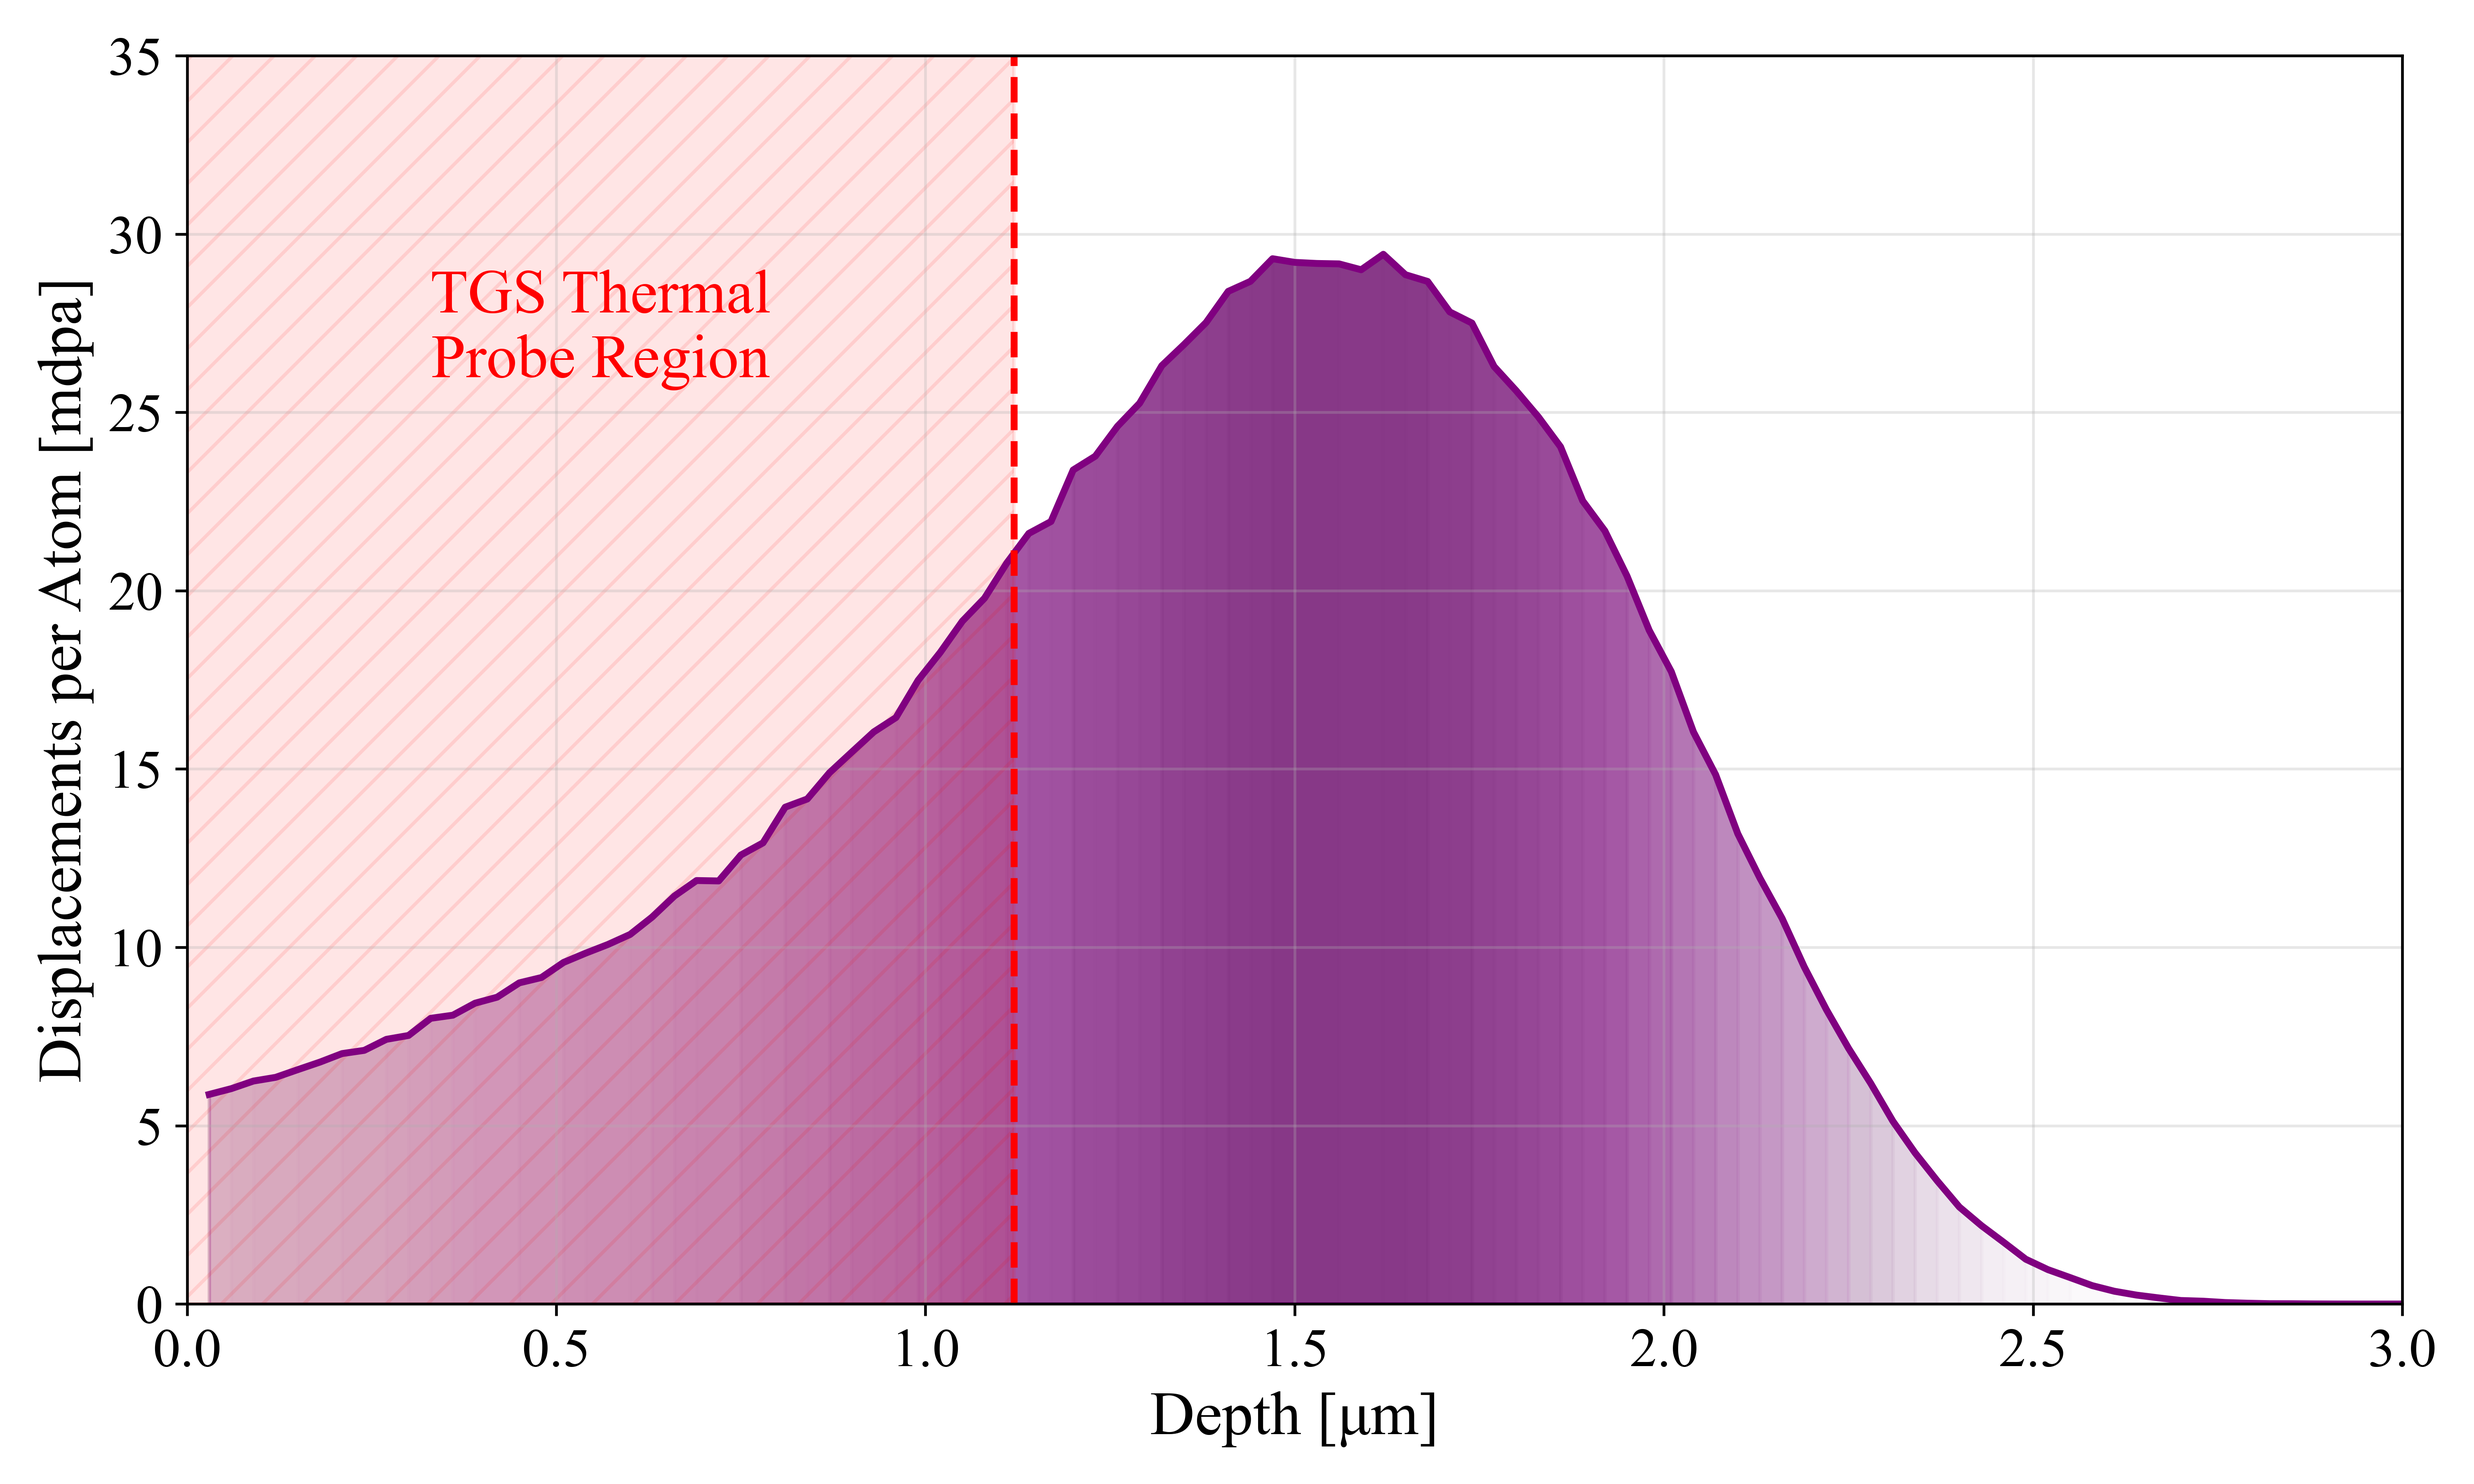
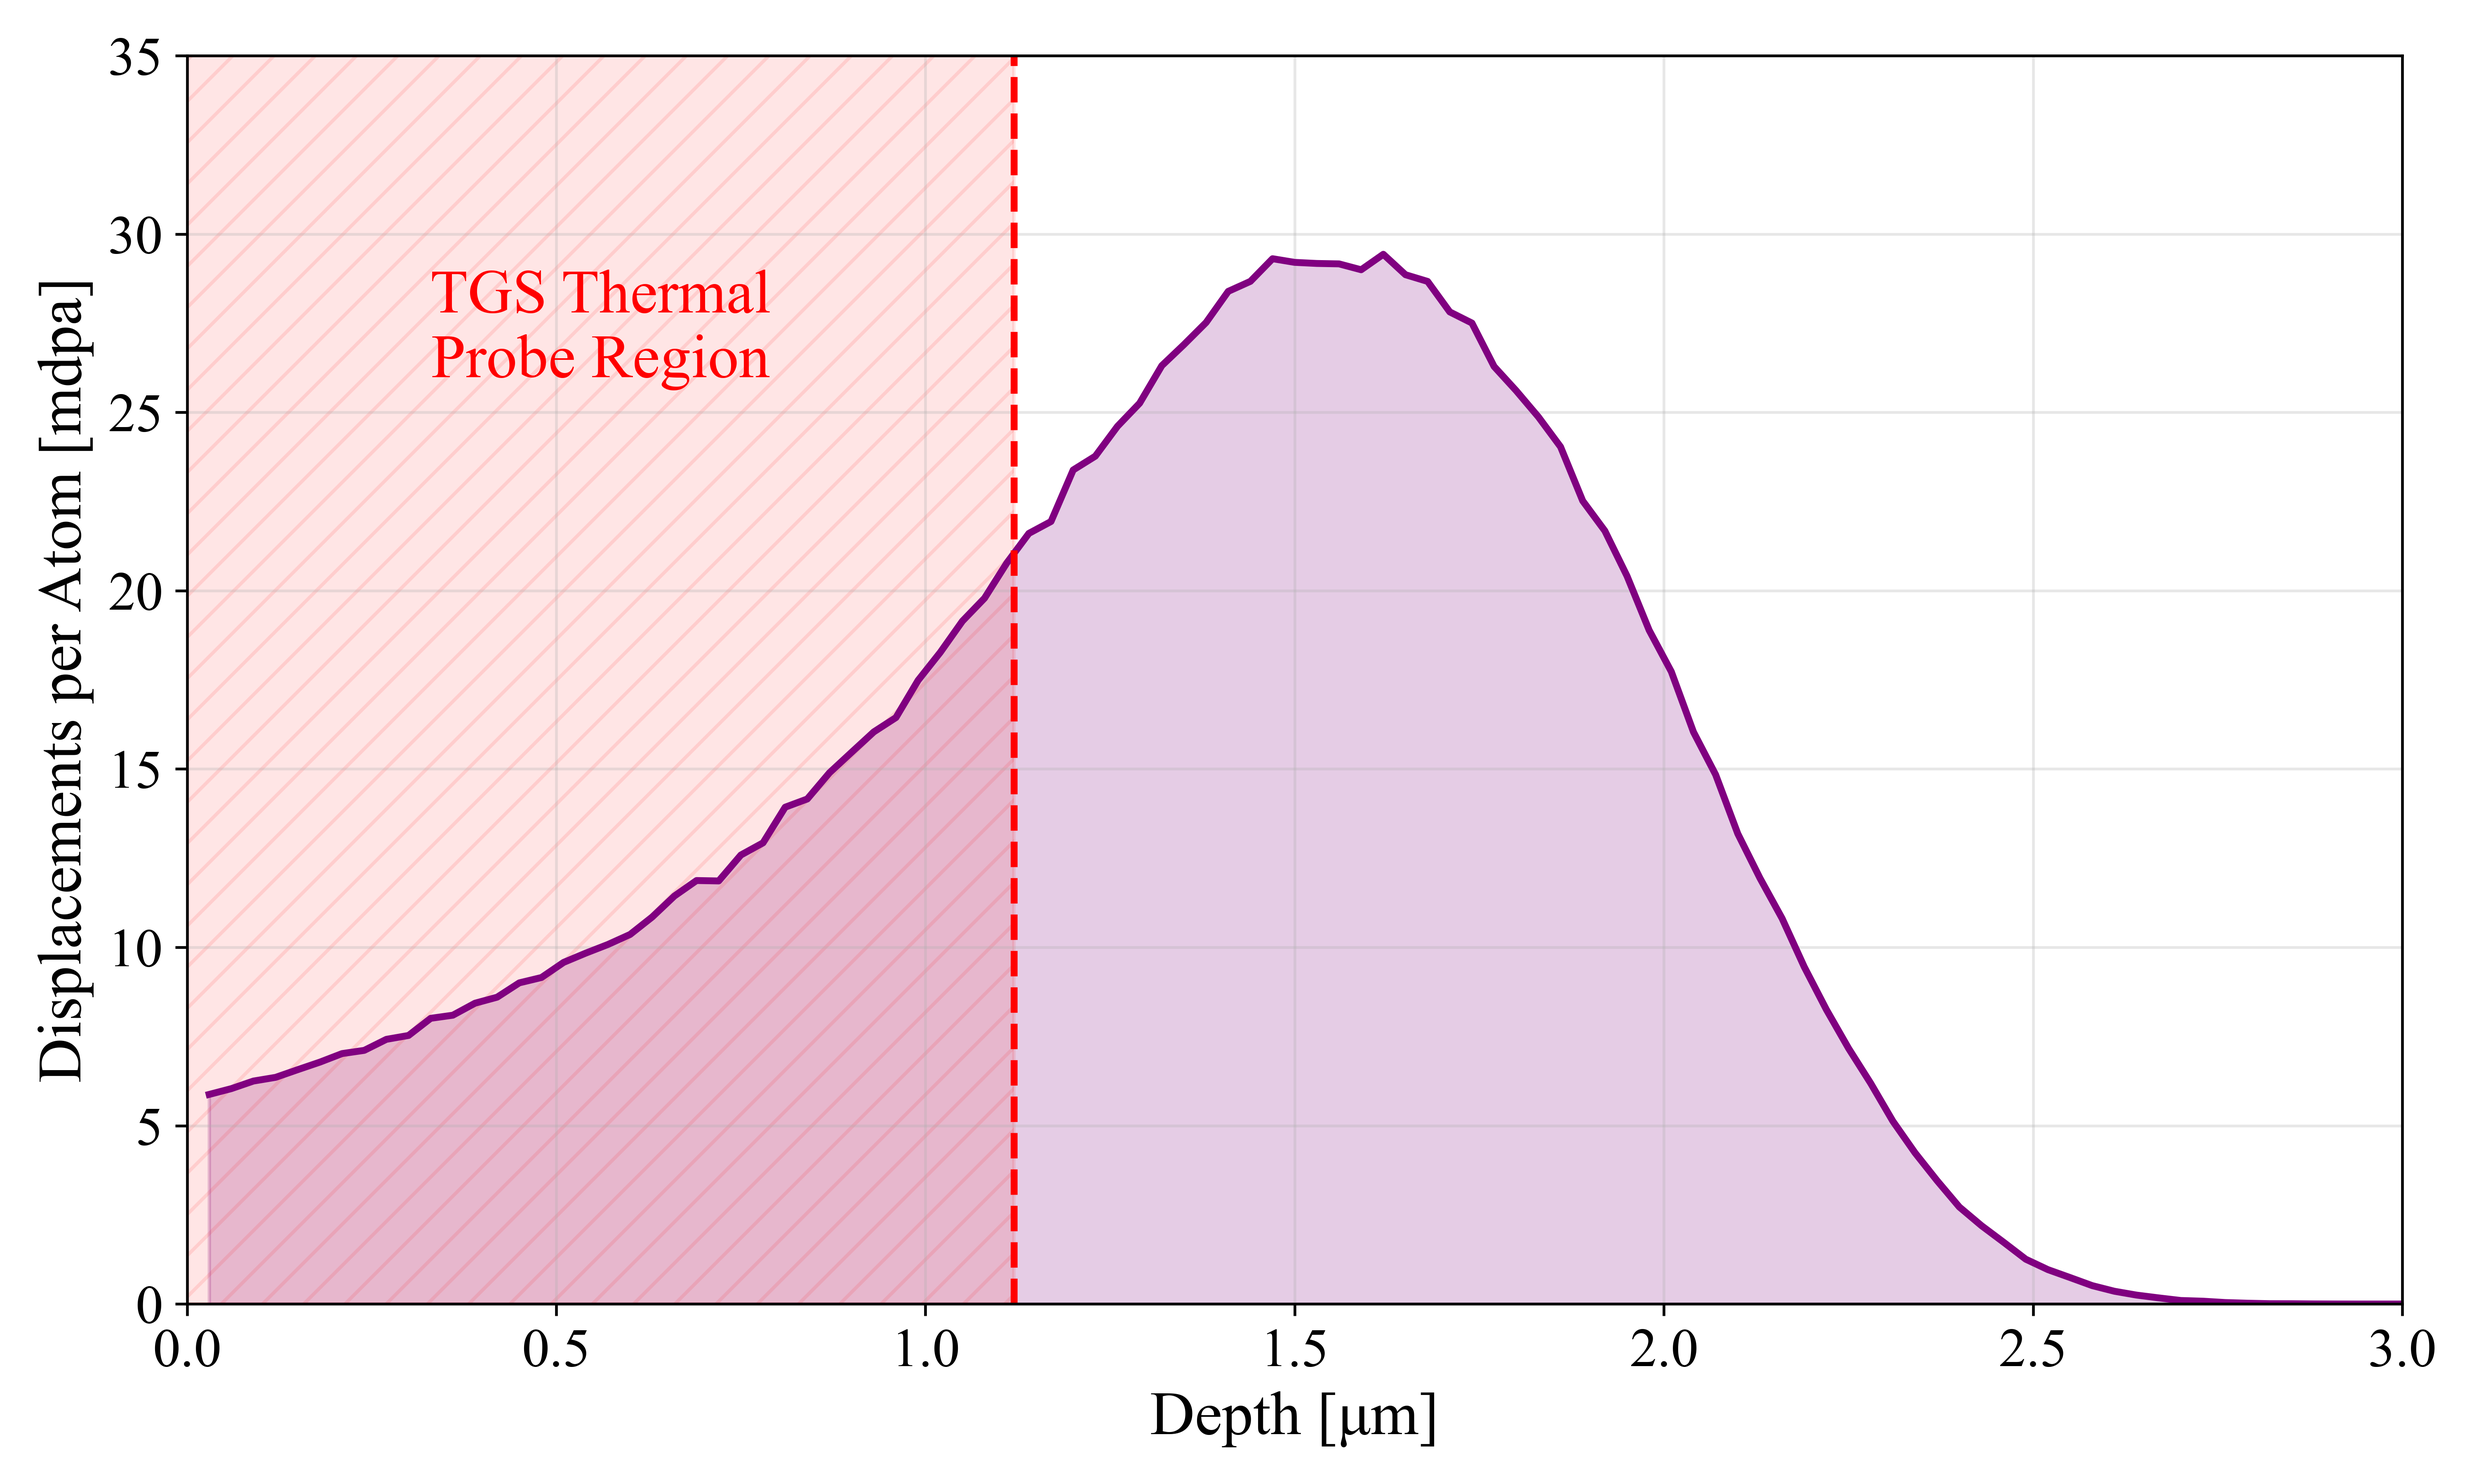
Refactor super-Lorentzian fitting to skewed super-Lorentzian; update configuration and related functions. Adjust plot labels and improve depth vs. DPA visualization.

Changed region(s): [[0.1558, 0.1556, 0.748, 0.9022], [0.7792, 0.8089, 0.8727, 0.9022]]

diff --git a/src/analysis/lorentzian.py b/src/analysis/lorentzian.py
@@ -4,11 +4,11 @@ import numpy as np
 from scipy.optimize import curve_fit
 
 from src.core.path import Paths
-from src.analysis.functions import lorentzian_function, super_lorentzian_function
+from src.analysis.functions import lorentzian_function, skewed_super_lorentzian_function
 from src.core.plot import plot_fft_lorentzian
 
 
-def lorentzian_fit(paths: Paths, file_idx: int, fft: np.ndarray, signal_proportion: float = 1.0, frequency_bounds: List[Union[float, float]] = [0.1, 0.9], dc_filter_range: List[Union[int, int]] = [0, 12000], bimodal_fit: bool = False, use_super_lorentzian: bool = True, plot: bool = False) -> Tuple[np.ndarray, np.ndarray, np.ndarray, np.ndarray, float]:
+def lorentzian_fit(paths: Paths, file_idx: int, fft: np.ndarray, signal_proportion: float = 1.0, frequency_bounds: List[Union[float, float]] = [0.1, 0.9], dc_filter_range: List[Union[int, int]] = [0, 12000], bimodal_fit: bool = False, use_skewed_super_lorentzian: bool = True, plot: bool = False) -> Tuple[np.ndarray, np.ndarray, np.ndarray, np.ndarray, float]:
     """
     Fit Lorentzian peak to FFT signal.
 
@@ -63,11 +63,11 @@ def lorentzian_fit(paths: Paths, file_idx: int, fft: np.ndarray, signal_proporti
 
     min_freq, max_freq = frequency_bounds
     
-    if use_super_lorentzian:
-        fit_function = super_lorentzian_function
-        initial_guess = [1e-2, peak_loc, 0.05, 0, 0.5]
-        lower_bounds = [0, min_freq, 1e-3, 0, 0.1]
-        upper_bounds = [1, max_freq, 0.2, 1, 0.9]
+    if use_skewed_super_lorentzian:
+        fit_function = skewed_super_lorentzian_function
+        initial_guess = [1e-2, peak_loc, 0.05, 0, 0.5, -0.5]
+        lower_bounds = [0, min_freq, 1e-3, 0, 0.1, -2.0]
+        upper_bounds = [1, max_freq, 0.2, 1, 0.9, 2.0]
     else:
         fit_function = lorentzian_function
         initial_guess = [1e-4, peak_loc, 1e-2, 0]
@@ -79,9 +79,9 @@ def lorentzian_fit(paths: Paths, file_idx: int, fft: np.ndarray, signal_proporti
     popt, pcov = curve_fit(fit_function, fft[neg_idx:pos_idx, 0], fft[neg_idx:pos_idx, 1], 
                           p0=initial_guess, bounds=bounds)
     
-    if use_super_lorentzian:
-        _, x0, W, _, _ = popt
-        _, x0_error, _, _, _ = np.sqrt(np.diag(pcov))
+    if use_skewed_super_lorentzian:
+        _, x0, W, _, _, _ = popt
+        _, x0_error, _, _, _, _ = np.sqrt(np.diag(pcov))
     else:
         _, x0, W, _ = popt
         _, x0_error, _, _ = np.sqrt(np.diag(pcov))

diff --git a/src/analysis/functions.py b/src/analysis/functions.py
@@ -94,13 +94,10 @@ def lorentzian_function(x: np.ndarray, A: float, x0: float, W: float, C: float) 
     """
     return A / ((x - x0) ** 2 + W ** 2) + C
 
-def super_lorentzian_function(x: np.ndarray, A: float, x0: float, W: float, C: float, n: float) -> np.ndarray:
+def skewed_super_lorentzian_function(x: np.ndarray, A: float, x0: float, W: float, C: float, n: float, alpha: float) -> np.ndarray:
     """
-    Super-Lorentzian function for flat-top peak fitting.
-
-    Equation:
-        L(x) = A / (((x - x0)² + W²)^n) + C
-
+    Skewed super-Lorentzian function for asymmetric peak fitting.
+    
     Parameters:
         x (np.ndarray): frequency array [GHz]
         A (float): amplitude of the peak
@@ -108,8 +105,10 @@ def super_lorentzian_function(x: np.ndarray, A: float, x0: float, W: float, C: f
         W (float): peak width parameter [GHz]
         C (float): vertical offset
         n (float): power parameter (n<1 gives flat tops, n>1 gives sharper peaks)
-
+        alpha (float): skewness parameter (0 = symmetric, >0 = right skew, <0 = left skew)
+        
     Returns:
-        np.ndarray: Super-Lorentzian function values
+        np.ndarray: Skewed super-Lorentzian function values
     """
-    return A / (((x - x0) ** 2 + W ** 2) ** n) + C
+    z = (x - x0) / W
+    return A / (((x - x0) ** 2 + W ** 2) ** n) * (1 + alpha * z) / (1 + alpha**2 * z**2) + C

diff --git a/src/core/plot.py b/src/core/plot.py
@@ -123,7 +123,7 @@ def plot_combined(paths, file_idx, signal, max_time, start_time, start_idx, func
     ax1.spines['top'].set_visible(False)
     ax1.spines['right'].set_visible(False)
 
-    inset_position = [0.517, 0.54, 0.42, 0.42]
+    inset_position = [0.45, 0.45, 0.42, 0.42]
     background = plt.Rectangle((inset_position[0] - 0.06, inset_position[1] - 0.075),
                              inset_position[2] + 0.09, inset_position[3] + 0.09,
                              facecolor='white', edgecolor='black', transform=fig.transFigure,
@@ -135,7 +135,7 @@ def plot_combined(paths, file_idx, signal, max_time, start_time, start_idx, func
     ax2.plot(frequencies, amplitudes, '-k', linewidth=1.5, label='FFT Signal')
     x_smooth = np.linspace(min(frequencies), max(frequencies), 1000)
     y_fit = lorentzian_function(x_smooth, *lorentzian_popt)
-    ax2.plot(x_smooth, y_fit, '--r', linewidth=1.5, label='Lorentzian Fit')
+    ax2.plot(x_smooth, y_fit, '--r', linewidth=1.5, label='Skewed Super-Lorentzian Fit')
     y_range = ax2.get_ylim()
     ax2.vlines(frequency_bounds[0], y_range[0], y_range[1], color='purple', linestyle='--', linewidth=1.5, label='Frequency Bounds')
     ax2.vlines(frequency_bounds[1], y_range[0], y_range[1], color='purple', linestyle='--', linewidth=1.5)

diff --git a/src/experiment/plot.py b/src/experiment/plot.py
@@ -280,13 +280,10 @@ def plot_depth_vs_dpa(df):
     gs = plt.GridSpec(1, 1)
     
     ax_main = plt.subplot(gs[0, :])
-    levels = np.linspace(0, max(df['dpa'] * 1e3), 100)
-    for i in range(len(levels)-1):
-        ax_main.fill_between(df['depth[um]'], 
-                           df['dpa'] * 1e3,
-                           where=(df['dpa'] * 1e3 >= levels[i]),
-                           color='purple',
-                           alpha=0.01)
+    ax_main.fill_between(df['depth[um]'], 
+                       df['dpa'] * 1e3, 
+                       color='purple', 
+                       alpha=0.2)
     probe_depth = 1.12
     pattern = '//'
     ax_main.fill_between([0, probe_depth], 0, 40,
